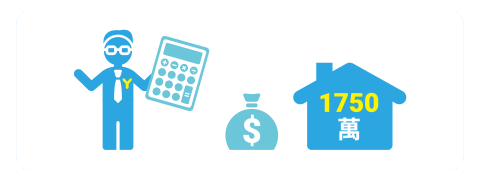
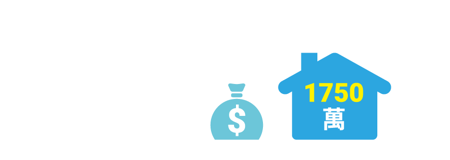
更新動畫

Changed region(s): [[0.1556, 0.1562, 0.4356, 0.8438], [0.5911, 0.3125, 0.8711, 0.875], [0.4667, 0.5, 0.5911, 0.875]]

diff --git a/css/style.css b/css/style.css
@@ -208,6 +208,80 @@
         height:130px;
         margin: 10px auto;
     }
+    .cnt-a-man{
+        background: url("../img/cont1-a-people.png")no-repeat;
+        background-size: contain;
+        width:100%;
+        height:130px;
+        margin: 10px auto;
+        margin-left: 5%;
+    }
+    .cnt-a-wave{
+        background: url("../img/cont1-a-hand.png")no-repeat;
+        background-size: contain;
+        width:100%;
+        height:130px;
+        margin: 10px auto;
+        animation: wave 1s infinite linear;
+        -webkit-transform-origin: 35% 100%;
+        transform-origin: 4% 65%;
+    }
+    @-0-keyframes wave{
+        0%{
+            -webkit-transform: rotateX(0deg);
+            transform: rotate(-3deg);
+        }
+        50%{
+            -webkit-transform: rotateX(90deg);
+            transform: rotate(0deg);
+        }
+        50%{
+            -webkit-transform: rotateX(120deg);
+            transform: rotate(3deg);
+        }
+    }
+    @-moz-keyframes wave{
+        0%{
+            -webkit-transform: rotateX(-3deg);
+            transform: rotate(-3deg);
+        }
+        50%{
+            -webkit-transform: rotateX(0deg);
+            transform: rotate(0deg);
+        }
+        50%{
+            -webkit-transform: rotateX(3deg);
+            transform: rotate(3deg);
+        }
+    }
+    @-webkit-keyframes wave{
+        0%{
+            -webkit-transform: rotateX(-3deg);
+            transform: rotate(-3deg);
+        }
+        50%{
+            -webkit-transform: rotateX(0deg);
+            transform: rotate(0deg);
+        }
+        50%{
+            -webkit-transform: rotateX(3deg);
+            transform: rotate(3deg);
+        }
+    }
+    @keyframes wave{
+        0%{
+            -webkit-transform: rotateX(-3deg);
+            transform: rotate(-3deg);
+        }
+        50%{
+            -webkit-transform: rotateX(0deg);
+            transform: rotate(0deg);
+        }
+        50%{
+            -webkit-transform: rotateX(3deg);
+            transform: rotate(3deg);
+        }
+    }
     .cnt-b{
         background: url("../img/cont1-b.png")no-repeat;
         background-size: contain;
@@ -215,12 +289,45 @@
         height:130px;
         margin: 10px auto;
     }
+    .cnt-b-number{
+        animation-delay: 4s;
+    }
+    .cnt-b-number1{
+        background: url("../img/cont1-b-number-1.png")no-repeat;
+        background-size: contain;
+        position: absolute;
+        width:100%;
+        height:130px;
+    }
+    .cnt-b-number2{
+        background: url("../img/cont1-b-number-2.png")no-repeat;
+        background-size: contain;
+        position: absolute;
+        width:100%;
+        height:130px;
+    }
+    .cnt-b-number3{
+        background: url("../img/cont1-b-number-3.png")no-repeat;
+        background-size: contain;
+        width:100%;
+        height:130px;
+    }
     .cnt-c{
         background: url("../img/cont1-c.png")no-repeat;
         background-size: contain;
         width:100%;
         height:130px;
         margin: 10px auto;
+        overflow: hidden;
+    }
+    .cnt-c-tower{
+        background: url("../img/cont1-c-house.png")no-repeat 25%;
+        background-size: contain;
+        width:100%;
+        height:130px;
+        -webkit-transform-origin: 35% 100%;
+        transform-origin: 35% 100%;
+        animation-delay: 5s;
     }
     .cnt-analy-left{
         background: url("../img/chart-1.png")no-repeat center;

diff --git a/index.html b/index.html
@@ -39,17 +39,30 @@
                     <div class="cnt">
                         <div class="cnt-text">Y先生是年僅30歲、年薪百萬且潛力無限的會計師，以目前的收入，申請一般房貸方案，可購買房屋總價約1,750萬元！</div>
                         <div class="aarow-right"></div>
-                        <div class="cnt-a"></div>
+                        <div class="cnt-a">
+                            <div class="cnt-a-man">
+                                <div class="cnt-a-wave"></div>
+                            </div>
+                            
+                        </div>
                     </div>
                     <div class="cnt">
-                        <div class="cnt-b"></div>
+                        <div class="cnt-b">
+                            <div class="cnt-b-number animated bounceInUp">
+                                <div class="cnt-b-number1  "></div>
+                                <div class="cnt-b-number2 "></div>
+                                <div class="cnt-b-number3 "></div>
+                            </div>
+                        </div>
                         <div class="aarow-left"></div>
                         <div class="cnt-text">Y先生發現，「Y世代蛋黃貸」專案「本金攤還金額前低後高」，並提供「各階段本金攤還比率%自由選」，前5年償還房貸總額度最低2.5%，讓他有更充裕的時間儲備資產，有計畫地還清房貸！</div>
                     </div>
                     <div class="cnt">
                         <div class="cnt-text">有了「Y世代蛋黃貸」，Y先生現在就可以購買總價2,500萬元的蛋黃區優質房產，前期還款負擔也大為減輕，提早實現精華區置產夢想！</div>
                         <div class="aarow-right"></div>
-                        <div class="cnt-c"></div>
+                        <div class="cnt-c">
+                            <div class="cnt-c-tower animated zoomIn"></div>
+                        </div>
                     </div>
                 </div>
             </div>
